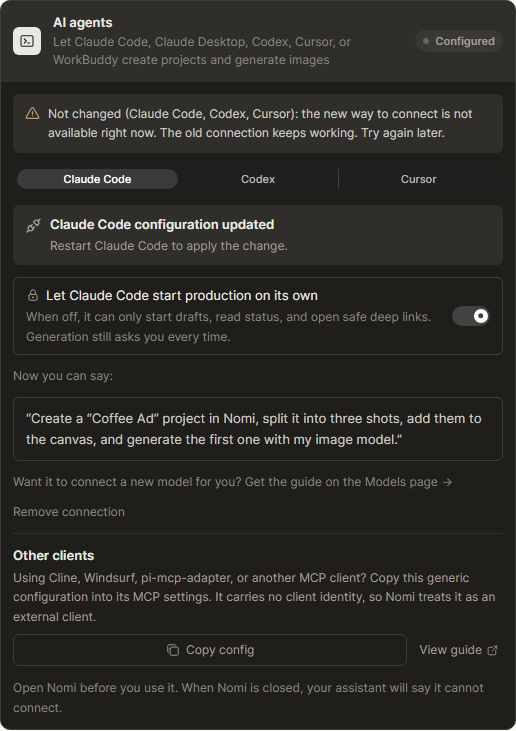
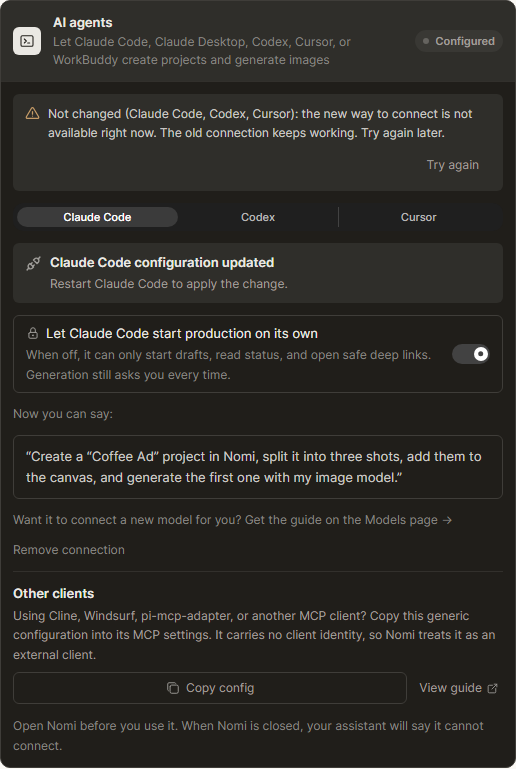
feat(mcp): 迁移失败态加「再试一次」（只重试没改成的宿主）并重拍截图

diff --git a/src/ui/onboarding/ConnectAssistantCard.tsx b/src/ui/onboarding/ConnectAssistantCard.tsx
@@ -31,6 +31,7 @@ import {
 } from './assistantActivationState'
 import { genericMcpSnippet } from './mcpGenericSnippet'
 import { McpMigrationPrompt } from './McpMigrationPrompt'
+import { mergeRetryResults, retryTargets } from './mcpMigrationFailureKeys'
 
 const GUIDE_URL = 'https://github.com/aqm857886159/Nomi/blob/main/docs/guide/capability-core-cli-mcp.md'
 type ClientKey = AssistantClientKey
@@ -234,6 +235,19 @@ export function ConnectAssistantCard({
       .finally(() => setBusy(false))
   }
 
+  const handleRetryMigration = () => {
+    if (!capability.migrateMcpHosts || !migrationResults) return
+    setBusy(true)
+    void capability.migrateMcpHosts(retryTargets(migrationResults))
+      .then((retried) => {
+        setMigrationResults((prev) => mergeRetryResults(prev ?? [], retried))
+        onChanged()
+        setCheckNonce((n) => n + 1)
+      })
+      .catch((e: unknown) => setError(t('onboardingProviders.assistant.connectFailed', { message: e instanceof Error ? e.message : String(e) })))
+      .finally(() => setBusy(false))
+  }
+
   const handleUninstall = () => {
     if (!capability.uninstallMcp) return
     setBusy(true)
@@ -286,7 +300,7 @@ export function ConnectAssistantCard({
             : t('onboardingProviders.assistant.status.configured')
 
   const migrationBlock = migrationResults ? (
-    <McpMigrationPrompt phase="done" labels={migrationLabels.current} results={migrationResults} />
+    <McpMigrationPrompt phase="done" labels={migrationLabels.current} results={migrationResults} busy={busy} onRetry={handleRetryMigration} />
   ) : migration && migration.hosts.length > 0 && deferred !== migration.appVersion ? (
     <McpMigrationPrompt
       phase="ask"

diff --git a/src/ui/onboarding/mcpMigrationCopy.test.ts b/src/ui/onboarding/mcpMigrationCopy.test.ts
@@ -1,7 +1,7 @@
 import { describe, expect, it } from 'vitest'
 
 import { enOnboardingProviders, zhOnboardingProviders } from '../../i18n/locales/onboardingProviders'
-import { FAILURE_I18N } from './mcpMigrationFailureKeys'
+import { FAILURE_I18N, mergeRetryResults, retryTargets } from './mcpMigrationFailureKeys'
 
 const BANNED = /MCP|HTTP|口令|预算|价格|budget|price|token|proof/i
 const flat = (value: unknown): string[] =>
@@ -19,5 +19,19 @@ describe('迁移提示文案', () => {
       expect((assistant.migration.failed as Record<string, string>)[key], key).toBeTruthy()
     }
     expect(assistant.migration.failed.unavailable).toMatch(/原来的连接照常可用|old connection keeps working/)
+  })
+})
+
+describe('再试一次', () => {
+  const ok = (client: string) => ({ client, ok: true as const, kind: 'http' as const, backupPath: null })
+  const bad = (client: string) => ({ client, ok: false as const, reason: 'write-failed' as const })
+
+  it('只重试没改成的宿主，已改好的不在名单里', () => {
+    expect(retryTargets([ok('claude'), bad('codex'), bad('cursor')])).toEqual(['codex', 'cursor'])
+  })
+
+  it('重试结果只替换失败的那几项，已改好的保持原样', () => {
+    const merged = mergeRetryResults([ok('claude'), bad('codex'), bad('cursor')], [ok('codex'), bad('cursor')])
+    expect(merged.map((r) => [r.client, r.ok])).toEqual([['claude', true], ['codex', true], ['cursor', false]])
   })
 })

diff --git a/src/ui/onboarding/McpMigrationPrompt.tsx b/src/ui/onboarding/McpMigrationPrompt.tsx
@@ -26,7 +26,7 @@ function failureLines(
 
 export type McpMigrationPromptProps =
   | { phase: 'ask'; hosts: readonly string[]; busy: boolean; onDefer: () => void; onConfirm: () => void }
-  | { phase: 'done'; labels: Readonly<Record<string, string>>; results: readonly McpMigrationResult[] }
+  | { phase: 'done'; labels: Readonly<Record<string, string>>; results: readonly McpMigrationResult[]; busy: boolean; onRetry: () => void }
 
 export function McpMigrationPrompt(props: McpMigrationPromptProps): JSX.Element {
   const { t } = useTranslation()
@@ -79,6 +79,19 @@ export function McpMigrationPrompt(props: McpMigrationPromptProps): JSX.Element 
           <span>{t(`onboardingProviders.assistant.migration.failed.${FAILURE_I18N[line.reason]}`, { client: line.clients })}</span>
         </div>
       ))}
+      {failed.length > 0 ? (
+        <div className="flex justify-end">
+          <button
+            type="button"
+            data-assistant-migration-retry
+            onClick={props.onRetry}
+            disabled={props.busy}
+            className="h-8 px-3 text-caption text-nomi-ink-60 hover:text-nomi-ink disabled:opacity-50"
+          >
+            {t('onboardingProviders.assistant.migration.retry')}
+          </button>
+        </div>
+      ) : null}
     </div>
   )
 }

diff --git a/src/ui/onboarding/mcpMigrationFailureKeys.ts b/src/ui/onboarding/mcpMigrationFailureKeys.ts
@@ -1,4 +1,4 @@
-import type { McpMigrationFailure } from '../../desktop/mcpBridgeTypes'
+import type { McpMigrationFailure, McpMigrationResult } from '../../desktop/mcpBridgeTypes'
 
 // 迁移没改成的原因 → i18n 键尾（onboardingProviders.assistant.migration.failed.*）。
 export const FAILURE_I18N: Record<McpMigrationFailure, string> = {
@@ -9,4 +9,15 @@ export const FAILURE_I18N: Record<McpMigrationFailure, string> = {
   'http-unavailable': 'unavailable',
   'backup-failed': 'backupFailed',
   'write-failed': 'writeFailed',
+}
+
+/** 「再试一次」只重试没改成的宿主；已改好的不再碰。 */
+export function retryTargets(results: readonly McpMigrationResult[]): string[] {
+  return results.filter((r) => !r.ok).map((r) => r.client)
+}
+
+/** 重试后的合并：已改好的保留原结果，失败的换成新结果。 */
+export function mergeRetryResults(previous: readonly McpMigrationResult[], retried: readonly McpMigrationResult[]): McpMigrationResult[] {
+  const byClient = new Map(retried.map((r) => [r.client, r]))
+  return previous.map((r) => (r.ok ? r : byClient.get(r.client) ?? r))
 }

diff --git a/src/i18n/locales/onboardingProviders.ts b/src/i18n/locales/onboardingProviders.ts
@@ -656,6 +656,7 @@ export const zhOnboardingProviders = {
       askHint: '改之前会先备份；不改也照样能用到下个版本。',
       defer: '以后再说',
       confirm: '改过去',
+      retry: '再试一次',
       done: '已改好 {{count}} 个，原配置的备份放在各自旁边，重启它们后生效。',
       failed: {
         unavailable: '{{client}} 没改：新连接方式现在用不了，原来的连接照常可用。稍后再试。',
@@ -1928,6 +1929,7 @@ export const enOnboardingProviders = {
       askHint: 'We back up first. Leaving it as is keeps working until the next version.',
       defer: 'Not now',
       confirm: 'Switch over',
+      retry: 'Try again',
       done: 'Switched {{count}}. Each original config is backed up next to it. Restart them to take effect.',
       failed: {
         unavailable: 'Not changed ({{client}}): the new way to connect is not available right now. The old connection keeps working. Try again later.',

diff --git a/electron/capabilityCore/mcpHostMigration.test.ts b/electron/capabilityCore/mcpHostMigration.test.ts
@@ -257,6 +257,21 @@ describe('失败只影响那一个宿主，且原文件一个字节都不动', (
   })
 })
 
+describe('再试一次只动失败的宿主', () => {
+  it('第一次 cursor 失败；修好后只重试 cursor：claude 已改好的字节不变', () => {
+    seedAll()
+    fs.writeFileSync(cfg('cursor'), '{ not json')
+    const first = migrateMcpHostsToHttp(['claude', 'cursor'])
+    expect(first.map((r) => r.ok)).toEqual([true, false])
+    const claudeMigrated = bytes(cfg('claude'))
+    seedStdioHost('cursor')
+    const retried = migrateMcpHostsToHttp(first.filter((r) => !r.ok).map((r) => r.client))
+    expect(retried).toHaveLength(1)
+    expect(retried[0]).toMatchObject({ client: 'cursor', ok: true })
+    expect(bytes(cfg('claude'))).toEqual(claudeMigrated)
+  })
+})
+
 describe('迁移前备份与恢复', () => {
   it('备份是迁移前逐字节原文；之后再写（重装、再迁移）不覆盖它', () => {
     seedAll()
